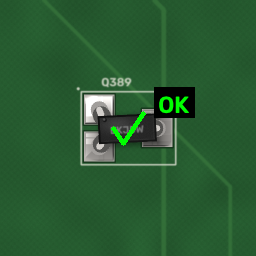
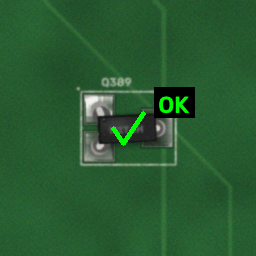
Gallery on the new renderers; honour render.blender.engine in previews
- update_sample_gallery.py and the GUI preview panel ignored
  render.blender.engine and always rendered with EEVEE; pass it through
- Blender paste domes scale with the deposit (thermal pad islands now
  visible like in 2D)
- sample gallery regenerated (2D photoreal, 3D @2 profiles)
- 3D guide: Blender >= 4.0

diff --git a/Simple-Sim/tools/update_sample_gallery.py b/Simple-Sim/tools/update_sample_gallery.py
@@ -293,10 +293,10 @@ def main() -> None:
             raise SystemExit(f"Invalid --roi format: {args.roi!r} (expected WIDTHxHEIGHT@MM_PER_PX)")
         roi_override = (int(m.group(1)), int(m.group(2)), float(m.group(3)))
 
-    # Stage 3D jobs and run Blender in batches grouped by (exe, samples, device).
-    # We can't mix sample counts in a single Blender invocation because render_batch.py
-    # takes samples via a single CLI flag.
-    staged_3d_groups: dict[tuple[str, int, str], dict[str, Any]] = {}
+    # Stage 3D jobs and run Blender in batches grouped by (exe, samples, device, engine).
+    # We can't mix these in a single Blender invocation because render_batch.py
+    # takes them via single CLI flags.
+    staged_3d_groups: dict[tuple[str, int, str, str], dict[str, Any]] = {}
 
     for profile_path in profiles:
         profile_data = read_profile(profile_path)
@@ -373,7 +373,8 @@ def main() -> None:
             this_exe = str(args.blender or blender_cfg.get("executable", "blender"))
             this_samples = int(args.samples or blender_cfg.get("samples", 64))
             this_device = str(args.device or blender_cfg.get("device", "CPU"))
-            group_key = (this_exe, this_samples, this_device)
+            this_engine = str(blender_cfg.get("engine", "BLENDER_EEVEE"))
+            group_key = (this_exe, this_samples, this_device, this_engine)
             if group_key not in staged_3d_groups:
                 staged_3d_groups[group_key] = {"jobs": [], "overlays": []}
 
@@ -404,7 +405,7 @@ def main() -> None:
         out_jobs_dir.mkdir(parents=True, exist_ok=True)
 
         for gi, (group_key, group) in enumerate(sorted(staged_3d_groups.items(), key=lambda kv: kv[0]), 1):
-            exe, samples, device = group_key
+            exe, samples, device, engine = group_key
             jobs: list[dict[str, Any]] = group["jobs"]
             overlays: list[tuple[Path, dict[str, Any], dict[str, Any]]] = group["overlays"]
             if not jobs:
@@ -413,7 +414,7 @@ def main() -> None:
             jobs_path = (out_jobs_dir / f"sample_gallery_jobs_{gi:02d}.jsonl").resolve()
             write_jobs_jsonl(jobs_path, jobs)
 
-            print(f"\nRendering {len(jobs)} 3D sample(s) via Blender (exe={exe!r} samples={samples} device={device!r})...")
+            print(f"\nRendering {len(jobs)} 3D sample(s) via Blender (exe={exe!r} samples={samples} device={device!r} engine={engine})...")
             try:
                 render_blender_batch(
                     sim_root=project_root,
@@ -422,6 +423,7 @@ def main() -> None:
                     blender_executable=str(exe),
                     cycles_samples=int(samples),
                     device=str(device),
+                    engine=str(engine),
                 )
             except Exception as e:
                 raise SystemExit(

diff --git a/Simple-Sim/gui/components/filter_popup/preview_panel.py b/Simple-Sim/gui/components/filter_popup/preview_panel.py
@@ -296,6 +296,7 @@ def do_render_3d_preview(popup: Any, profile_id: str, filter_vals: dict[str, Any
         blender_executable = "blender"
         cycles_samples = 32
         device = "CPU"
+        engine = "BLENDER_EEVEE"
         roi_width_px = 320
         roi_height_px = 320
         mm_per_px = 0.02
@@ -319,6 +320,7 @@ def do_render_3d_preview(popup: Any, profile_id: str, filter_vals: dict[str, Any
             blender_executable = str(blender_cfg.get("executable", blender_executable))
             cycles_samples = min(32, int(blender_cfg.get("samples", cycles_samples)))
             device = str(blender_cfg.get("device", device))
+            engine = str(blender_cfg.get("engine", engine))
             break
 
         geometry_ranges = profile.get("geometry_ranges") or {}
@@ -369,6 +371,7 @@ def do_render_3d_preview(popup: Any, profile_id: str, filter_vals: dict[str, Any
             blender_executable=blender_executable,
             cycles_samples=cycles_samples,
             device=device,
+            engine=engine,
         )
 
         import cv2  # type: ignore
@@ -732,6 +735,7 @@ def _left_render_3d_thread(popup: Any, profile_id: str, filter_vals: dict[str, A
         blender_executable = "blender"
         cycles_samples = 32
         device = "CPU"
+        engine = "BLENDER_EEVEE"
         roi_width_px = 320
         roi_height_px = 320
         mm_per_px = 0.02
@@ -754,6 +758,7 @@ def _left_render_3d_thread(popup: Any, profile_id: str, filter_vals: dict[str, A
             blender_executable = str(blender_cfg.get("executable", blender_executable))
             cycles_samples = min(32, int(blender_cfg.get("samples", cycles_samples)))
             device = str(blender_cfg.get("device", device))
+            engine = str(blender_cfg.get("engine", engine))
             break
 
         geometry_ranges = profile.get("geometry_ranges") or {}
@@ -806,6 +811,7 @@ def _left_render_3d_thread(popup: Any, profile_id: str, filter_vals: dict[str, A
             blender_executable=blender_executable,
             cycles_samples=cycles_samples,
             device=device,
+            engine=engine,
         )
 
         import cv2  # type: ignore

diff --git a/Simple-Sim/simple_sim/blender/render_batch.py b/Simple-Sim/simple_sim/blender/render_batch.py
@@ -168,6 +168,7 @@ def _fillet(name: str, pad, contact: dict[str, float] | None, h_term: float, big
     if big and not touched:
         nx, ny = max(2, round(pw / (min(pw, ph) / 3))), max(2, round(ph / (min(pw, ph) / 3)))
 
+    dome_h = 0.18 * min(pw / nx, ph / ny)  # reflowed paste height scales with the paste deposit, as in 2D
     verts = []
     for j, y in enumerate(ys):
         for i, x in enumerate(xs):
@@ -178,7 +179,7 @@ def _fillet(name: str, pad, contact: dict[str, float] | None, h_term: float, big
             else:
                 u = ((i / n * nx) % 1.0) * 2 - 1
                 v = ((j / n * ny) % 1.0) * 2 - 1
-                z = 0.3 * h_term * max(0.0, 1.0 - (abs(u) ** 3 + abs(v) ** 3) * (0.85 if nx * ny == 1 else 1.2))
+                z = dome_h * max(0.0, 1.0 - (abs(u) ** 3 + abs(v) ** 3) * (0.85 if nx * ny == 1 else 1.2))
             verts.append((x, y, 0.001 + z * rim))
     faces = [(j * (n + 1) + i, j * (n + 1) + i + 1, (j + 1) * (n + 1) + i + 1, (j + 1) * (n + 1) + i)
              for j in range(n) for i in range(n)]
@@ -212,7 +213,7 @@ def _build_part(pads: list[tuple[float, float, float, float]], board: dict[str, 
     """
     family, body = board["family"], board["body"]
     if body is None:
-        return [], [None] * len(pads), 0.25 * min(min(p[2], p[3]) for p in pads)
+        return [], [None] * len(pads), 0.0  # no contacts: every pad gets a paste dome
 
     mats = render_3d.get("materials") or {}
     L, W = float(body["length"]) * mmpp, float(body["width"]) * mmpp
@@ -293,7 +294,7 @@ def _build_part(pads: list[tuple[float, float, float, float]], board: dict[str, 
             contacts.append({"cx": mid.x, "cy": mid.y, "hl": d.length / 2, "hw": lw / 2, "angle": math.atan2(d.y, d.x)})
         return objs, contacts, 0.9 * t
     if family in ("sot", "soic"):
-        return objs, [None] * len(pads), 0.5 * H  # tombstoned leaded part: leads lifted, paste only
+        return objs, [None] * len(pads), 0.0  # tombstoned leaded part: leads lifted, paste only
     return objs, [contact] * len(pads), 0.3 * H
 
 

diff --git a/Simple-Sim/SAMPLE_GALLERY.md b/Simple-Sim/SAMPLE_GALLERY.md
@@ -1,6 +1,6 @@
 # Sample Gallery
 
-Auto-generated reference images for all component profiles (2D and 3D). Last updated: 2026-11-06 06:10:14
+Auto-generated reference images for all component profiles (2D and 3D). Last updated: 2026-11-06 08:31:41
 
 Re-generate by running:
 ```bash
@@ -14,10 +14,10 @@ Re-generate by running:
   - [qfn32_ic@1](#qfn32-ic1)
   - [sot23_transistor@1](#sot23-transistor1)
 - [3D Profiles](#3d-profiles)
-  - [chip_0603_resistor_3d@1](#chip-0603-resistor-3d1)
-  - [qfn32_ic_3d@1](#qfn32-ic-3d1)
-  - [soic16_ic_3d@1](#soic16-ic-3d1)
-  - [sot23_transistor_3d@1](#sot23-transistor-3d1)
+  - [chip_0603_resistor_3d@2](#chip-0603-resistor-3d2)
+  - [qfn32_ic_3d@2](#qfn32-ic-3d2)
+  - [soic16_ic_3d@2](#soic16-ic-3d2)
+  - [sot23_transistor_3d@2](#sot23-transistor-3d2)
 
 ## 2D Profiles
 
@@ -50,39 +50,39 @@ Re-generate by running:
 
 ## 3D Profiles
 
-### chip_0603_resistor_3d@1
+### chip_0603_resistor_3d@2
 
 | Class | Sample |
 |-------|--------|
-| MISALIGNED | ![MISALIGNED](images/samples/chip_0603_resistor_3d@1/MISALIGNED.png) |
-| MISSING | ![MISSING](images/samples/chip_0603_resistor_3d@1/MISSING.png) |
-| OK | ![OK](images/samples/chip_0603_resistor_3d@1/OK.png) |
-| TOMBSTONE | ![TOMBSTONE](images/samples/chip_0603_resistor_3d@1/TOMBSTONE.png) |
+| MISALIGNED | ![MISALIGNED](images/samples/chip_0603_resistor_3d@2/MISALIGNED.png) |
+| MISSING | ![MISSING](images/samples/chip_0603_resistor_3d@2/MISSING.png) |
+| OK | ![OK](images/samples/chip_0603_resistor_3d@2/OK.png) |
+| TOMBSTONE | ![TOMBSTONE](images/samples/chip_0603_resistor_3d@2/TOMBSTONE.png) |
 
-### qfn32_ic_3d@1
-
-| Class | Sample |
-|-------|--------|
-| MISALIGNED | ![MISALIGNED](images/samples/qfn32_ic_3d@1/MISALIGNED.png) |
-| MISSING | ![MISSING](images/samples/qfn32_ic_3d@1/MISSING.png) |
-| OK | ![OK](images/samples/qfn32_ic_3d@1/OK.png) |
-| TOMBSTONE | ![TOMBSTONE](images/samples/qfn32_ic_3d@1/TOMBSTONE.png) |
-
-### soic16_ic_3d@1
+### qfn32_ic_3d@2
 
 | Class | Sample |
 |-------|--------|
-| MISALIGNED | ![MISALIGNED](images/samples/soic16_ic_3d@1/MISALIGNED.png) |
-| MISSING | ![MISSING](images/samples/soic16_ic_3d@1/MISSING.png) |
-| OK | ![OK](images/samples/soic16_ic_3d@1/OK.png) |
-| TOMBSTONE | ![TOMBSTONE](images/samples/soic16_ic_3d@1/TOMBSTONE.png) |
+| MISALIGNED | ![MISALIGNED](images/samples/qfn32_ic_3d@2/MISALIGNED.png) |
+| MISSING | ![MISSING](images/samples/qfn32_ic_3d@2/MISSING.png) |
+| OK | ![OK](images/samples/qfn32_ic_3d@2/OK.png) |
+| TOMBSTONE | ![TOMBSTONE](images/samples/qfn32_ic_3d@2/TOMBSTONE.png) |
 
-### sot23_transistor_3d@1
+### soic16_ic_3d@2
 
 | Class | Sample |
 |-------|--------|
-| MISALIGNED | ![MISALIGNED](images/samples/sot23_transistor_3d@1/MISALIGNED.png) |
-| MISSING | ![MISSING](images/samples/sot23_transistor_3d@1/MISSING.png) |
-| OK | ![OK](images/samples/sot23_transistor_3d@1/OK.png) |
-| TOMBSTONE | ![TOMBSTONE](images/samples/sot23_transistor_3d@1/TOMBSTONE.png) |
+| MISALIGNED | ![MISALIGNED](images/samples/soic16_ic_3d@2/MISALIGNED.png) |
+| MISSING | ![MISSING](images/samples/soic16_ic_3d@2/MISSING.png) |
+| OK | ![OK](images/samples/soic16_ic_3d@2/OK.png) |
+| TOMBSTONE | ![TOMBSTONE](images/samples/soic16_ic_3d@2/TOMBSTONE.png) |
+
+### sot23_transistor_3d@2
+
+| Class | Sample |
+|-------|--------|
+| MISALIGNED | ![MISALIGNED](images/samples/sot23_transistor_3d@2/MISALIGNED.png) |
+| MISSING | ![MISSING](images/samples/sot23_transistor_3d@2/MISSING.png) |
+| OK | ![OK](images/samples/sot23_transistor_3d@2/OK.png) |
+| TOMBSTONE | ![TOMBSTONE](images/samples/sot23_transistor_3d@2/TOMBSTONE.png) |
 

diff --git a/Simple-Sim/docs/guides/3D_RENDERING_QUICKSTART.md b/Simple-Sim/docs/guides/3D_RENDERING_QUICKSTART.md
@@ -60,6 +60,8 @@ Board colours, traces, silkscreen and pad finish are changed in the 2D generator
 
 ## Run config (`render.blender`)
 
+Requires Blender 4.0 or newer (Principled BSDF v2 input names); tested with 5.2.
+
 ```yaml
 render:
   backend: blender_3d
